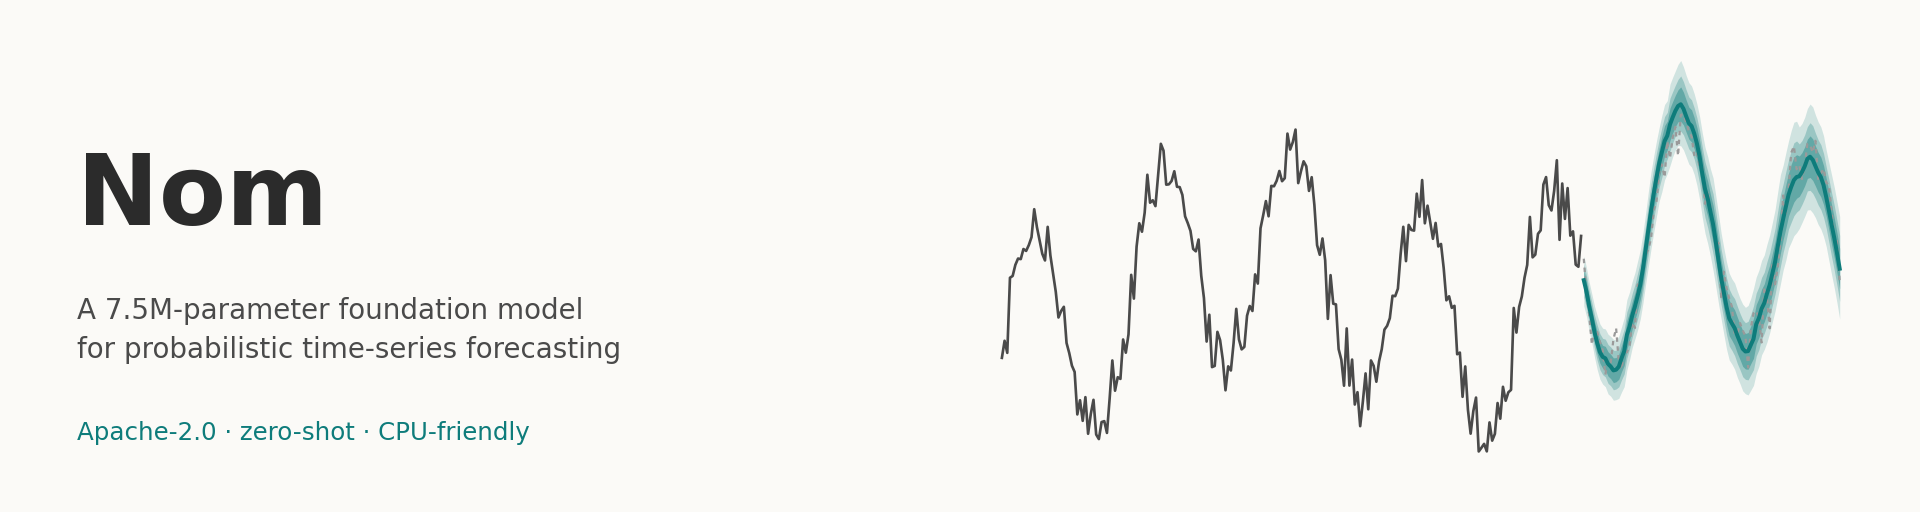
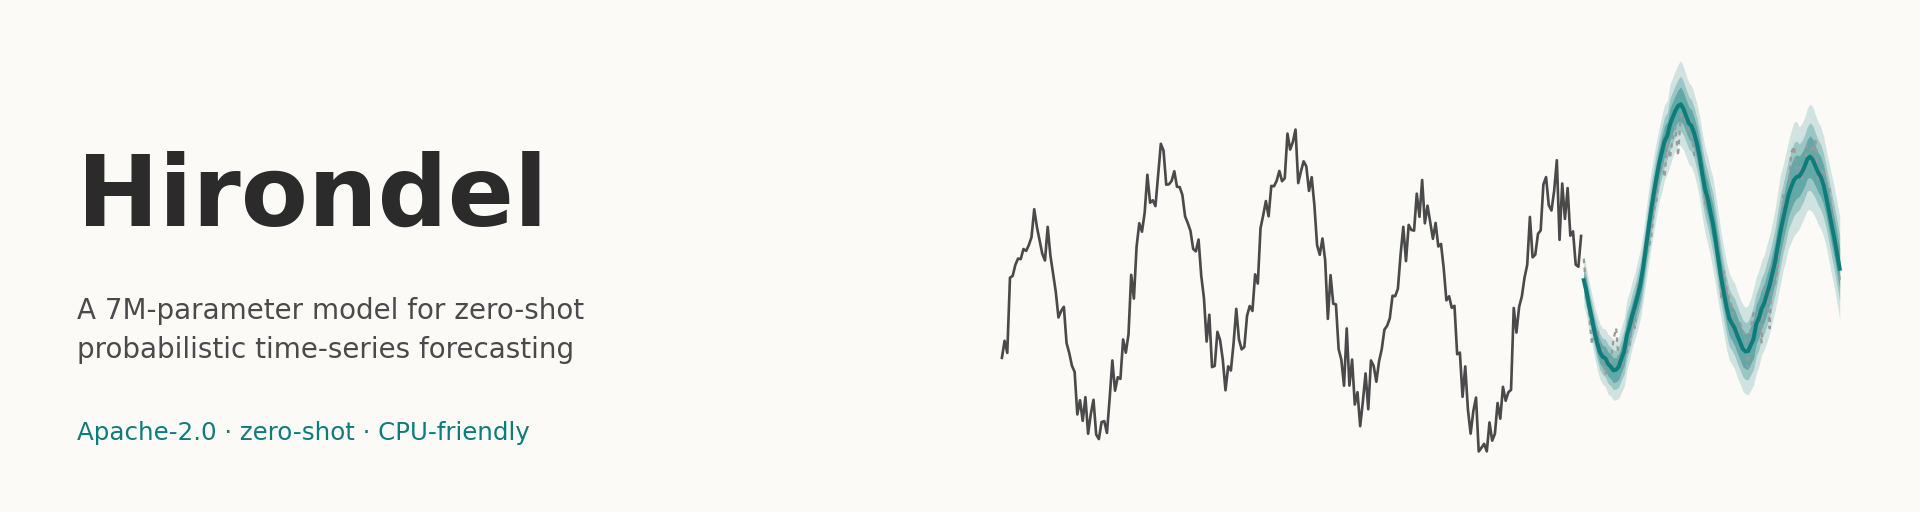
Hirondel: origin line, keywords, BibTeX, PyPI metadata (The Hirondel Authors, no e-mail), install from PyPI; showcase regenerated with the name

Changed region(s): [[0.0312, 0.2812, 0.2812, 0.4375], [0.0312, 0.6562, 0.3438, 0.7188], [0.0625, 0.5625, 0.3125, 0.625]]

diff --git a/showcase/render.py b/showcase/render.py
@@ -181,7 +181,8 @@ def same_protocol_figure(sp, sizes, ours_name, path, permissive=None):
             else:
                 ax.scatter([x], [r[metric]], s=26, facecolors=BG, edgecolors=DARK, linewidths=1.1, zorder=4)
             ax.annotate(f"{r['model']} (ours)" if mine else r["model"], (x, r[metric]),
-                        xytext=(7, -13) if mine else (5, 4), textcoords="offset points",
+                        xytext=(7, -13) if mine else (5, -11) if r["model"] == "TiRex" else (5, 4),
+                        textcoords="offset points",                      # TiRex below: Toto-2.0-22m sits beside it
                         fontsize=10 if mine else 8, fontweight="bold" if mine else "normal",
                         color=ACCENT if mine else INK)
         ax.set_xscale("log")
@@ -296,7 +297,7 @@ def all(rows, sp, ours, models, model_path, uni=None):
         sizes.setdefault(r["model"], sizes.get(r["model"].split(" (")[0]))
     permissive = {m["name"]: m["permissive"] for m in models["models"]}
     same_protocol_figure(sp_all, sizes, name, os.path.join(FIG, "same_protocol.png"), permissive)
-    banner(model_path, name, "A 7.5M-parameter foundation model\nfor probabilistic time-series forecasting",
+    banner(model_path, name, "A 7M-parameter model for zero-shot\nprobabilistic time-series forecasting",
            os.path.join(FIG, "banner.png"))
     with open(os.path.join(HERE, "sentence.txt")) as f:
         sentence = f.read().strip()

diff --git a/MODEL_CARD.md b/MODEL_CARD.md
@@ -9,7 +9,7 @@ tags:
   - zero-shot
   - probabilistic-forecasting
 model-index:
-  - name: Hirondel
+  - name: Hirondel-7M
     results:
       - task: {type: time-series-forecasting, name: Probabilistic forecasting}
         dataset: {type: Salesforce/GiftEval, name: GIFT-Eval (97 tasks)}
@@ -30,10 +30,12 @@ model-index:
 
 ![Hirondel](showcase/figures/banner.png)
 
-# Hirondel
+# Hirondel-7M: zero-shot probabilistic time-series forecasting
 
-A small foundation model for zero-shot probabilistic time-series forecasting: 7.5M parameters, 9 quantiles from 0.1 to
-0.9, any horizon, CPU-friendly. Code and weights under Apache-2.0.
+*Hirondel — from French* hirondelle *(swallow), the bird said to tell the weather.*
+
+Hirondel is a 7M-parameter time-series forecasting model for zero-shot probabilistic forecasting: 9 quantiles from 0.1
+to 0.9, any horizon, CPU-friendly. Code and weights under Apache-2.0: https://github.com/tncrd/hirondel.
 
 **The most accurate forecasting model under 10M parameters with public weights and a permissive license, on GIFT-Eval, fev-bench and TIME** (official leaderboards, read on 2026-10-23; how this was checked: `showcase/README.md`).
 
@@ -52,7 +54,7 @@ These numbers are computed by us and not yet listed on the leaderboards. Added t
 ![Accuracy against size, univariate setting](showcase/figures/univariate.png)
 
 Univariate setting: every model forecasts each series alone, without covariates (competitors run by us in forced
-univariate mode with their public packages; TiRex and TimesFM-2.5 univariate by design). Pareto fronts over models with
+univariate mode with their public packages; TiRex, TimesFM-2.5, FlowState-r1.1 and Moirai-2.0 univariate by design). Pareto fronts over models with
 a permissive license, the others shown hollow.
 
 | Model | Parameters | License | GIFT-Eval MASE | GIFT-Eval CRPS | TIME MASE | TIME CRPS | fev-bench SQL skill |
@@ -86,7 +88,8 @@ forecast = forecaster.forecast(context, prediction_length=48)
 print(forecast.quantiles.shape)   # (1, 48, 9)
 ```
 
-Install, inference details, tail levels, hardware and numerical parity: see the code repository's README.
+Install with `pip install hirondel`. Inference details, tail levels, hardware and numerical parity: see the code
+repository's README (https://github.com/tncrd/hirondel).
 
 ## Training data
 
@@ -103,3 +106,14 @@ split, fev-bench or TIME is in the training data.
 ## License
 
 Apache-2.0 for code and weights. `NOTICE` must be kept when redistributing.
+
+## Citation
+
+```bibtex
+@misc{hirondel2026,
+  title        = {Hirondel-7M: zero-shot probabilistic time-series forecasting},
+  author       = {{The Hirondel Authors}},
+  year         = {2026},
+  howpublished = {\url{https://huggingface.co/Tncrd/Hirondel-7M}}
+}
+```

diff --git a/showcase/MODEL_CARD.template.md b/showcase/MODEL_CARD.template.md
@@ -9,7 +9,7 @@ tags:
   - zero-shot
   - probabilistic-forecasting
 model-index:
-  - name: Hirondel
+  - name: Hirondel-7M
     results:
       - task: {type: time-series-forecasting, name: Probabilistic forecasting}
         dataset: {type: Salesforce/GiftEval, name: GIFT-Eval (97 tasks)}
@@ -30,10 +30,12 @@ model-index:
 
 ![Hirondel](showcase/figures/banner.png)
 
-# Hirondel
+# Hirondel-7M: zero-shot probabilistic time-series forecasting
 
-A small foundation model for zero-shot probabilistic time-series forecasting: 7.5M parameters, 9 quantiles from 0.1 to
-0.9, any horizon, CPU-friendly. Code and weights under Apache-2.0.
+*Hirondel — from French* hirondelle *(swallow), the bird said to tell the weather.*
+
+Hirondel is a 7M-parameter time-series forecasting model for zero-shot probabilistic forecasting: 9 quantiles from 0.1
+to 0.9, any horizon, CPU-friendly. Code and weights under Apache-2.0: https://github.com/tncrd/hirondel.
 
 <!-- gen:sentence -->
 
@@ -44,7 +46,7 @@ A small foundation model for zero-shot probabilistic time-series forecasting: 7.
 ![Accuracy against size, univariate setting](showcase/figures/univariate.png)
 
 Univariate setting: every model forecasts each series alone, without covariates (competitors run by us in forced
-univariate mode with their public packages; TiRex and TimesFM-2.5 univariate by design). Pareto fronts over models with
+univariate mode with their public packages; TiRex, TimesFM-2.5, FlowState-r1.1 and Moirai-2.0 univariate by design). Pareto fronts over models with
 a permissive license, the others shown hollow.
 
 <!-- gen:univariate -->
@@ -67,7 +69,8 @@ forecast = forecaster.forecast(context, prediction_length=48)
 print(forecast.quantiles.shape)   # (1, 48, 9)
 ```
 
-Install, inference details, tail levels, hardware and numerical parity: see the code repository's README.
+Install with `pip install hirondel`. Inference details, tail levels, hardware and numerical parity: see the code
+repository's README (https://github.com/tncrd/hirondel).
 
 ## Training data
 
@@ -84,3 +87,14 @@ split, fev-bench or TIME is in the training data.
 ## License
 
 Apache-2.0 for code and weights. `NOTICE` must be kept when redistributing.
+
+## Citation
+
+```bibtex
+@misc{hirondel2026,
+  title        = {Hirondel-7M: zero-shot probabilistic time-series forecasting},
+  author       = {{The Hirondel Authors}},
+  year         = {2026},
+  howpublished = {\url{https://huggingface.co/Tncrd/Hirondel-7M}}
+}
+```

diff --git a/README.md b/README.md
@@ -2,7 +2,9 @@
 
 # Hirondel
 
-A small foundation model for zero-shot probabilistic time-series forecasting: **7.5M parameters**, 9 quantiles from 0.1
+*Hirondel — from French* hirondelle *(swallow), the bird said to tell the weather.*
+
+Hirondel is a 7M-parameter time-series forecasting model for zero-shot probabilistic forecasting: 9 quantiles from 0.1
 to 0.9 (tails to 0.01 and 0.99 by extrapolation), any horizon, CPU-friendly, **Apache-2.0** code and weights.
 
 **The most accurate forecasting model under 10M parameters with public weights and a permissive license, on GIFT-Eval, fev-bench and TIME** (official leaderboards, read on 2026-10-23; how this was checked: `showcase/README.md`).
@@ -59,12 +61,14 @@ jointly. Official results of well-known models, read on 2026-10-23, against thei
 
 ## Install
 
-From a clone of this repository (Python 3.10 or newer, PyTorch 2.4 or newer):
+Python 3.10 or newer, PyTorch 2.4 or newer:
 
 ```bash
-pip install .            # core: torch, numpy, safetensors, huggingface_hub
-pip install ".[pandas]"  # adds forecast_df for pandas DataFrames
+pip install hirondel             # core: torch, numpy, safetensors, huggingface_hub
+pip install "hirondel[pandas]"   # adds forecast_df for pandas DataFrames
 ```
+
+From a clone of this repository: `pip install .` (or `pip install ".[pandas]"`).
 
 ## Quick start
 
@@ -145,7 +149,16 @@ Code and weights: Apache-2.0 (`LICENSE`). The training data and the attribution 
 
 ## Citation
 
-See `CITATION.cff`.
+```bibtex
+@misc{hirondel2026,
+  title        = {Hirondel-7M: zero-shot probabilistic time-series forecasting},
+  author       = {{The Hirondel Authors}},
+  year         = {2026},
+  howpublished = {\url{https://huggingface.co/Tncrd/Hirondel-7M}}
+}
+```
+
+The same reference is in `CITATION.cff`.
 
 ## Contributing
 

diff --git a/showcase/README.template.md b/showcase/README.template.md
@@ -2,7 +2,9 @@
 
 # Hirondel
 
-A small foundation model for zero-shot probabilistic time-series forecasting: **7.5M parameters**, 9 quantiles from 0.1
+*Hirondel — from French* hirondelle *(swallow), the bird said to tell the weather.*
+
+Hirondel is a 7M-parameter time-series forecasting model for zero-shot probabilistic forecasting: 9 quantiles from 0.1
 to 0.9 (tails to 0.01 and 0.99 by extrapolation), any horizon, CPU-friendly, **Apache-2.0** code and weights.
 
 <!-- gen:sentence -->
@@ -40,12 +42,14 @@ jointly. Official results of well-known models, read on 2026-10-23, against thei
 
 ## Install
 
-From a clone of this repository (Python 3.10 or newer, PyTorch 2.4 or newer):
+Python 3.10 or newer, PyTorch 2.4 or newer:
 
 ```bash
-pip install .            # core: torch, numpy, safetensors, huggingface_hub
-pip install ".[pandas]"  # adds forecast_df for pandas DataFrames
+pip install hirondel             # core: torch, numpy, safetensors, huggingface_hub
+pip install "hirondel[pandas]"   # adds forecast_df for pandas DataFrames
 ```
+
+From a clone of this repository: `pip install .` (or `pip install ".[pandas]"`).
 
 ## Quick start
 
@@ -126,7 +130,16 @@ Code and weights: Apache-2.0 (`LICENSE`). The training data and the attribution 
 
 ## Citation
 
-See `CITATION.cff`.
+```bibtex
+@misc{hirondel2026,
+  title        = {Hirondel-7M: zero-shot probabilistic time-series forecasting},
+  author       = {{The Hirondel Authors}},
+  year         = {2026},
+  howpublished = {\url{https://huggingface.co/Tncrd/Hirondel-7M}}
+}
+```
+
+The same reference is in `CITATION.cff`.
 
 ## Contributing
 
